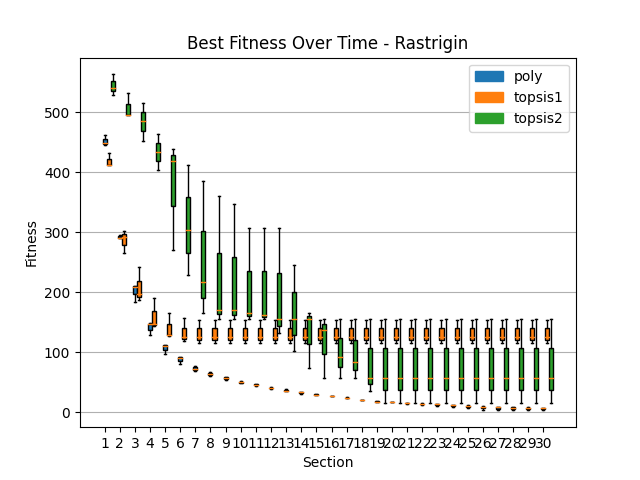
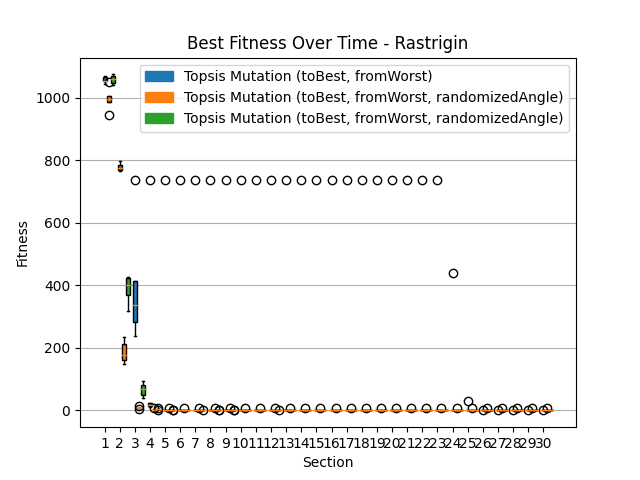
26.05.2023

diff --git a/topsis_mutation/main.py b/topsis_mutation/main.py
@@ -86,7 +86,7 @@ class Application(tk.Tk):
         # Number of tests
         ttk.Label(general_frame, text="Number of Tests:").grid(row=0, column=0)
         self.num_tests = ttk.Entry(general_frame)
-        self.num_tests.insert(0, "1")
+        self.num_tests.insert(0, "7")
         self.num_tests.grid(row=0, column=1)
 
         # Problem type
@@ -128,7 +128,7 @@ class Application(tk.Tk):
 
         # Polynomial mutation params
         self.poly_mutation_vars = {
-            "enabled": tk.BooleanVar(value=True),
+            "enabled": tk.BooleanVar(value=False), # Change "True" > "Flase"
         }
 
         self.poly_mutation_frame = ttk.LabelFrame(mutation_frame, text="Polynomial Mutation")
@@ -152,15 +152,34 @@ class Application(tk.Tk):
         self.topsis_mutation_vars = []
         for i in range(3):
             self.topsis_mutation_vars.append({
-                "probability": tk.DoubleVar(value=0.01),
-                "top_percentage": tk.DoubleVar(value=0.2),
-                "push_strength": tk.DoubleVar(value=0.1),
+                "probability": tk.DoubleVar(value=0.4),
+                "top_percentage": tk.DoubleVar(value=0.4),
+                "push_strength": tk.DoubleVar(value=0.4),
                 "toBest": tk.BooleanVar(),
                 "fromWorst": tk.BooleanVar(),
                 "randomizedAngle": tk.BooleanVar(),
                 "randomizedPoint": tk.BooleanVar(),
                 "enabled": tk.BooleanVar(value=True),
             })
+        self.topsis_mutation_vars[0]["toBest"].set(True)
+        self.topsis_mutation_vars[0]["fromWorst"].set(True)
+        
+        self.topsis_mutation_vars[1]["probability"].set(0.1)
+        self.topsis_mutation_vars[1]["top_percentage"].set(0.3)
+        self.topsis_mutation_vars[1]["push_strength"].set(0.6)
+        self.topsis_mutation_vars[1]["toBest"].set(True)
+        self.topsis_mutation_vars[1]["fromWorst"].set(True)
+        self.topsis_mutation_vars[1]["randomizedAngle"].set(True)
+
+
+        self.topsis_mutation_vars[2]["probability"].set(0.07)
+        self.topsis_mutation_vars[2]["top_percentage"].set(0.25)
+        self.topsis_mutation_vars[2]["push_strength"].set(0.4)
+        self.topsis_mutation_vars[2]["toBest"].set(True)
+        self.topsis_mutation_vars[2]["fromWorst"].set(True)
+        self.topsis_mutation_vars[2]["randomizedAngle"].set(True)
+
+
         for i in range(3):
             topsis_mutation_frame = ttk.LabelFrame(mutation_frame, text=f"Topsis Mutation {i+1}")
             topsis_mutation_frame.grid(row=1, column=i, padx=5)
@@ -469,24 +488,30 @@ class Application(tk.Tk):
                     for j in range(len(enabled_mutation_types))
                 ]
 
+                legend_patches = []
+
                 # Plot the custom box plots side by side
                 for i, (mutation_type, _) in enumerate(enabled_mutation_types):
                     plt.boxplot(box_data_list[i], positions=box_positions[i], widths=box_width, manage_ticks=False, patch_artist=True, boxprops=dict(facecolor="C" + str(i)))
+
+                    # Add selected parameters to the legend
+                    selected_vars = {k: v for k, v in eval(mutation_type + '_params').items() if k in ["toBest", "fromWorst", "randomizedAngle", "randomizedPoint"]}
+                    options_str = ", ".join(opt for opt, value in selected_vars.items() if value)
+                    # legend_label = f"{mutation_type} ({options_str})" # TODO: code below shows Topsis Mutation even if polynomial mutation is selected
+                    legend_label = f"Topsis Mutation ({options_str})"
+                    legend_patches.append(patches.Patch(color="C" + str(i), label=legend_label))
 
                 # Customize x-axis ticks and labels
                 ax = plt.gca()
                 ax.set_xticks(range(1, num_boxes + 1))
                 ax.set_xticklabels(range(1, num_boxes + 1))
 
-                # Create a list of patches for the legend
-                legend_patches = [patches.Patch(color="C" + str(i), label=mutation_type) for i, (mutation_type, _) in enumerate(enabled_mutation_types)]
-
                 # Add the legend to the plot
-                plt.legend(handles=legend_patches) # TODO: make the legend appear akin to the line plot
+                plt.legend(handles=legend_patches)
 
                 # Plot the custom box plot
                 plt.title(f"Best Fitness Over Time - {problem_type}")
-                plt.xlabel("Section") # TODO: make section axis more readable - maybe go back to the evaluations instead of sections?
+                plt.xlabel("Section")
                 plt.ylabel("Fitness")
                 plt.grid(axis="y")
                 plt.savefig("plots/topsis_mutation/box_plot.png")
